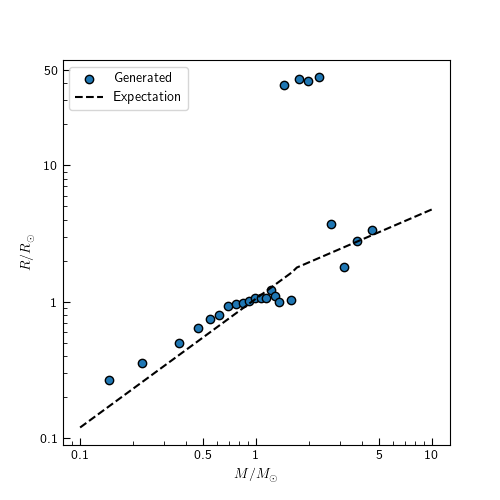
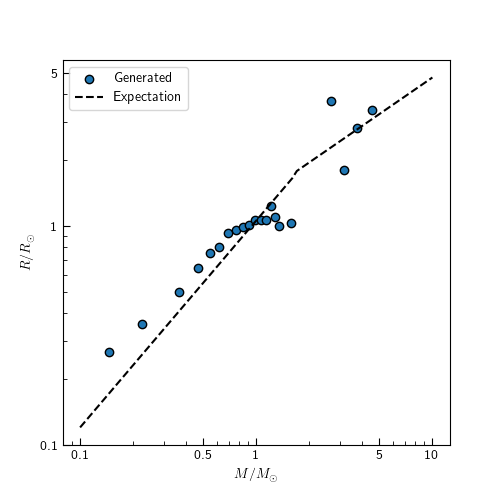
updates

diff --git a/diagrams.py b/diagrams.py
@@ -76,6 +76,10 @@ def HR_diag(data, savepath=""):
 
     plt.close('all')
 
+def rel_err(val, the):
+
+    return abs(val - the)/the * 100
+
 def LM_diag(data, savepath=""):
     """Creates a L-M diagram with the generated stars.
     INPUTS:
@@ -92,6 +96,7 @@ def LM_diag(data, savepath=""):
     ax.tick_params(which='major', length=5)
     ax.tick_params(which='minor', length=3)
 
+    e = []
     for xx in data:
         fff, lam = xx
 
@@ -100,10 +105,22 @@ def LM_diag(data, savepath=""):
         Lscaled = fff.L/s.Lsun * 1e-7
         Mscaled = fff.M/s.Msun / 1000
 
+        for M, L in zip(Mscaled, Lscaled):
+            if M < 0.7:
+                Lcomp = 0.35*(M**2.62)
+                e.append(rel_err(L, Lcomp))
+            else:
+                Lcomp = 1.02*(M**3.92)
+                e.append(rel_err(L, Lcomp))
+
         #ax.scatter(np.log10(Mscaled), np.log10(Lscaled), label=rf'$\lambda$ = {lam}', edgecolor='black', lw=1)
         ax.scatter(Mscaled, Lscaled, label='Generated', edgecolor='black', lw=1)
 
+    #mu, std = np.average(np.array(e)), np.std(np.array(e))
+    #print(mu, std)
 
+    #i = np.argmin(np.array(e))
+    #print(Mscaled[i])
     #from Ryden p. 330
     Mtest = np.linspace(0.1, 10, 100)
     Ltest = []
@@ -114,7 +131,6 @@ def LM_diag(data, savepath=""):
             Ltest.append(1.02*(M**3.92))
 
     plt.plot(Mtest, Ltest, label='Expectation', ls='--', color='black')
-
     ax.set_xlabel(r'$M$/$M_\odot$')
     ax.set_ylabel(r'$L$/$L_\odot$')
     ax.set_xticks([0.1, 0.5, 1, 5, 10], ['0.1', '0.5', '1', '5', '10'])
@@ -145,6 +161,7 @@ def RM_diag(data, savepath=""):
     ax.tick_params(which='major', length=5)
     ax.tick_params(which='minor', length=3)
 
+    e = []
     for xx in data:
         fff, lam = xx
 
@@ -153,8 +170,22 @@ def RM_diag(data, savepath=""):
         Rscaled = fff.R/s.Rsun / 100
         Mscaled = fff.M/s.Msun / 1000
 
+        for M, R in zip(Mscaled, Rscaled):
+            if M < 0.7:
+                Rcomp = 1.06*(M**0.945)
+                e.append(rel_err(R, Rcomp))
+            else:
+                Rcomp = 1.33*(M**0.555)
+                e.append(rel_err(R, Rcomp))
+
         #ax.scatter(np.log10(Mscaled), np.log10(Rscaled), label=rf'$\lambda$ = {lam}', edgecolor='black', lw=1)
         ax.scatter(Mscaled, Rscaled, label='Generated', edgecolor='black', lw=1)
+
+    mu, std = np.average(np.array(e)), np.std(np.array(e))
+    print(mu, std)
+
+    i = np.argmin(np.array(e)[:18])
+    print(Mscaled.to_numpy()[i])
 
     #from Ryden p. 330
     Mtest = np.linspace(0.1, 10, 100)
@@ -170,7 +201,7 @@ def RM_diag(data, savepath=""):
     ax.set_xlabel(r'$M$/$M_\odot$')
     ax.set_ylabel(r'$R$/$R_\odot$')
     ax.set_xticks([0.1, 0.5, 1, 5, 10], ['0.1', '0.5', '1', '5', '10'])
-    ax.set_yticks([0.1, 1, 10, 50], ['0.1', '1', '10', '50'])
+    ax.set_yticks([0.1, 1, 5], ['0.1', '1', '5'])
 
     plt.legend(loc='upper left')
 
@@ -202,7 +233,7 @@ if __name__ == '__main__':
 
     data = pd.read_csv(os.path.join(s.data_folder, 'stars_lam_0', 'generated_stars.csv'), header=0)
 
-    #data = data[round(data.R/100, ) < 30*s.Rsun]
+    data = data[round(data.R/100, ) < 30*s.Rsun]
 
     #data.Tsurf = np.power(data.L * 1e-7 / (4*np.pi*s.sb*(data.R / 100)**2), 1/4)
 

diff --git a/tools.py b/tools.py
@@ -27,19 +27,6 @@ def load_data():
 
     return highmass, lowmass, summary
 
-def dydr(r,y) :
-    """Defining the 5 ODEs to solve using RK4. Takes radius(r) and y as inputs where y is a 5 column
-       matrix representing [rho,Temp,Mass,Luminosity,OpticalDepth, lambda].
-
-       DEFUNCT.
-    """
-    rho, T, M, L, tau = y
-
-    # The five ODEs we are trying to solve (equation 2)
-    dydr = np.array([drho_dr(rho, T, r, L, M), dT_dr(rho, T, r, L, M), dM_dr(r, rho), dL_dr(r, rho, T), dtau_dr(rho, T)])
-
-    return dydr
-
 def epsilon(rho, T):
     """Calculates epsilon using Equations 8 and 9 from the project description.
     INPUTS:
@@ -301,66 +288,6 @@ def dM_dr(r, rho):
 
     return dM
 
-def dT_dr(rho, T, r, L, M):
-    """Calculates the temperature via Equation 2.
-    INPUTS:
-        rho - The density at some radius.
-        T - The temperature at some radius.
-        r - The radius.
-        L - The luminosity at some radius.
-        M - The mass at some radius.
-    OUTPUTS:
-        dT - The temperature at some radius, in K/m.
-
-    DEFUNCT.
-    """
-
-    A = 3*kappa(rho, T)*rho*L/(16*np.pi*s.a*s.c*(T**3)*(r**2))
-    B = (1 - 1/s.gamma)*T*s.G*M*rho/(pressure(rho, T)*(r**2))
-
-    dT = -min([A, B])
-
-    return dT
-
-def drho_dr(rho, T, r, L, M):
-    """Calculates the density via Equation 2.
-    INPUTS:
-        rho - The density at some radius.
-        T - The temperature at some radius.
-        r - The radius.
-        L - The luminosity at some radius.
-        M - The mass at some radius.
-    OUTPUTS:
-        drho - The density at some radius, in kg/m^4.
-
-    DEFUNCT.
-    """
-
-    A = s.G*M*rho/(r**2)
-    B = dP_dT(rho, T)*dT_dr(rho, T, r, L, M)
-    C = dP_drho(rho, T)
-
-    drho = -(A+B)/C
-
-    return drho
-
-def luminosity_check(R, L, T):
-    """This function is used as a check to see how close the ODE solved luminosity is to the
-    theoretical value, taken from Equation 17 in the project description.
-    INPUTS:
-        R - The radius of the star.
-        L - The luminosity of the star.
-        T - The surface temperature of the star.
-
-    OUTPUTS:
-        f - If this value is 0 then we have a perfect match.
-    """
-
-    theoretical =  4*np.pi*s.sb*(R**2)*(T**4)
-    f = (L-theoretical) / np.sqrt(L*theoretical)
-
-    return f
-
 def dtau(r, condition):
     '''This fucntion will calcualte the opacity proxy'''
 
@@ -407,7 +334,7 @@ def drho_dr_scaled(r, rho, T, M, L, lam):
     """
 
     A = s.G*M*rho*(1+lam/r)/(r**2)
-    B = dP_dT(rho, T)*dT_dr(rho, T, r, L, M)
+    B = dP_dT(rho, T)*dT_dr_scaled(rho, T, r, L, M, lam)
     C = dP_drho(rho, T)
 
     drho = -(A+B)/C

diff --git a/generate_star.py b/generate_star.py
@@ -1,5 +1,5 @@
 #script: generate_star.py
-#purpose: creates a star!
+#purpose: integrates the ODEs and returns the values
 
 import os
 import numpy as np
@@ -9,23 +9,20 @@ from tools import *
 import scipy.integrate as int
 import matplotlib.pyplot as plt
 
-#import FofLambda as grav
-
 np.seterr(all='ignore')
 
 def solveODEs(r_init, r_fin, y0):
     '''Function to solve the ODEs (equation 2 in the project description)'''
 
     def stopper(r, condition):
-        """Dictates when the integration stops for the conditions (1) M > 1000*Msun (2) dtau << 1
+        """Dictates when the integration stops for the conditions (1) M > 1000*Msun (2) dtau = 1e-3
         INPUTS:
             r - The current radius integrated at.
             condition - The array of conditions at radius r [rho, T, M, L, tau]
         OUTPUTS:
             Returns either a positive or negative value to direct the IVP solver to find
-            where dtau << 1 without having M > 1000Msun
+            where dtau = 1e-3 without having M > 1000Msun
         """
-
         if condition[2] > 1000*s.Msun: return -1
 
         #either positive or negative, the threshold is 1e-3 (the <<1)
@@ -36,7 +33,7 @@ def solveODEs(r_init, r_fin, y0):
 
     # outputs an array 'y' which contain the solutions to the ODEs which are described dydr from tools.py
     solutions = int.solve_ivp(dydr_gscaled, t_span, y0, 'RK45', t_eval=r_values,
-                              dense_output = True, events=stopper, atol=1e-15, rtol=1e-12)
+                              dense_output = True, events=stopper, rtol=1e-12, atol=1e-15)
 
     r = solutions.t # t here mean the 'time points' which in this case are the radius values or rvals
     rho, T, M, L, tau = solutions.y
@@ -86,7 +83,6 @@ def new_bisection(Tc):
 
     fmid, mid_rhoc = 10, 10 #arbitrary starting point / irrelevant
     tolerance = 1e-5 #tolerance for the bisection method
-    tolerance = 5
 
     count = 0 #for the sake of processing time
     while (abs(fmid) > tolerance) and (count < 200):

diff --git a/create_sequences.py b/create_sequences.py
@@ -18,38 +18,23 @@ def main():
 
         print(f'Generating star {num}. Temperature of {Tc}.')
 
-        if num in [13, 16, 18, 19, 20, 21, 23, 24]:
-            df, star_data = create_star(Tc)
+        df, star_data = create_star(Tc)
 
-            rho_c, Tc, R_star, M_star, L_star, T_star = star_data
+        rho_c, Tc, R_star, M_star, L_star, T_star = star_data
 
-            print(f'Saving the data. Took {time.time()-start} seconds.')
-            ### SAVING OUT THE DATA ###
-            summary_file = os.path.join(s.data_folder, f'stars_lam_{lam}, 'generated_stars.csv')
+        print(f'Saving the data. Took {time.time()-start} seconds.')
+        ### SAVING OUT THE DATA ###
+        #summary_file = os.path.join(s.data_folder, f'stars_lam_{lam}', 'generated_stars.csv')
+        summary_file = os.path.join(s.data_folder, 'test', 'generated_stars.csv')
 
-            with open(summary_file, 'a+') as f:
-                f.write(f'{rho_c},{Tc},{R_star},{M_star},{L_star},{T_star},{num}\n')
+        with open(summary_file, 'a+') as f:
+            f.write(f'{rho_c},{Tc},{R_star},{M_star},{L_star},{T_star},{num}\n')
 
-            df.to_csv(rf"{os.path.join(s.data_folder, f'stars_lam_{lam}, f'star_{num}.csv')}", index=False)
+        #df.to_csv(rf"{os.path.join(s.data_folder, f'stars_lam_{lam}', f'star_{num}.csv')}", index=False)
+        df.to_csv(rf"{os.path.join(s.data_folder, 'test', f'star_{num}.csv')}", index=False)
 
-            del df
+        del df
 
-    """
-    Tc = 8235440
-    Tc = int(round(14916666.666666666, -4))
-    df, star_data = create_star(Tc)
-
-    rho_c, Tc, R_star, M_star, L_star, T_star = star_data
-
-    summary_file = os.path.join(s.data_folder, 'summary_test.csv')
-
-    with open(summary_file, 'a+') as f:
-        f.write(f'{rho_c},{Tc},{R_star},{M_star},{L_star},{T_star}\n')
-
-    df.to_csv(rf"{os.path.join(s.data_folder, 'test_star.csv')}", index=False)
-
-    del df
-    """
 
 if __name__ == "__main__":
     main()

diff --git a/star_info.py b/star_info.py
@@ -191,10 +191,12 @@ if __name__ == '__main__':
     summary = os.path.join(s.data_folder, 'stars_lam_0', 'generated_stars.csv')
     info = pd.read_csv(summary, header=0).iloc[i, :]
 
+    info.Tsurf = np.power(info.L * 1e-7 / (4*np.pi*s.sb*(info.R / 100)**2), 1/4)
+
     star = os.path.join(s.data_folder, 'stars_lam_0', f'star_{i}.csv')
     data = pd.read_csv(star, header=0)
 
-    savepath = os.path.join(s.plots_folder, 'test.png')
+    savepath = os.path.join(s.plots_folder, 'greater_than_2.png')
 
     print('Plotting')
 
